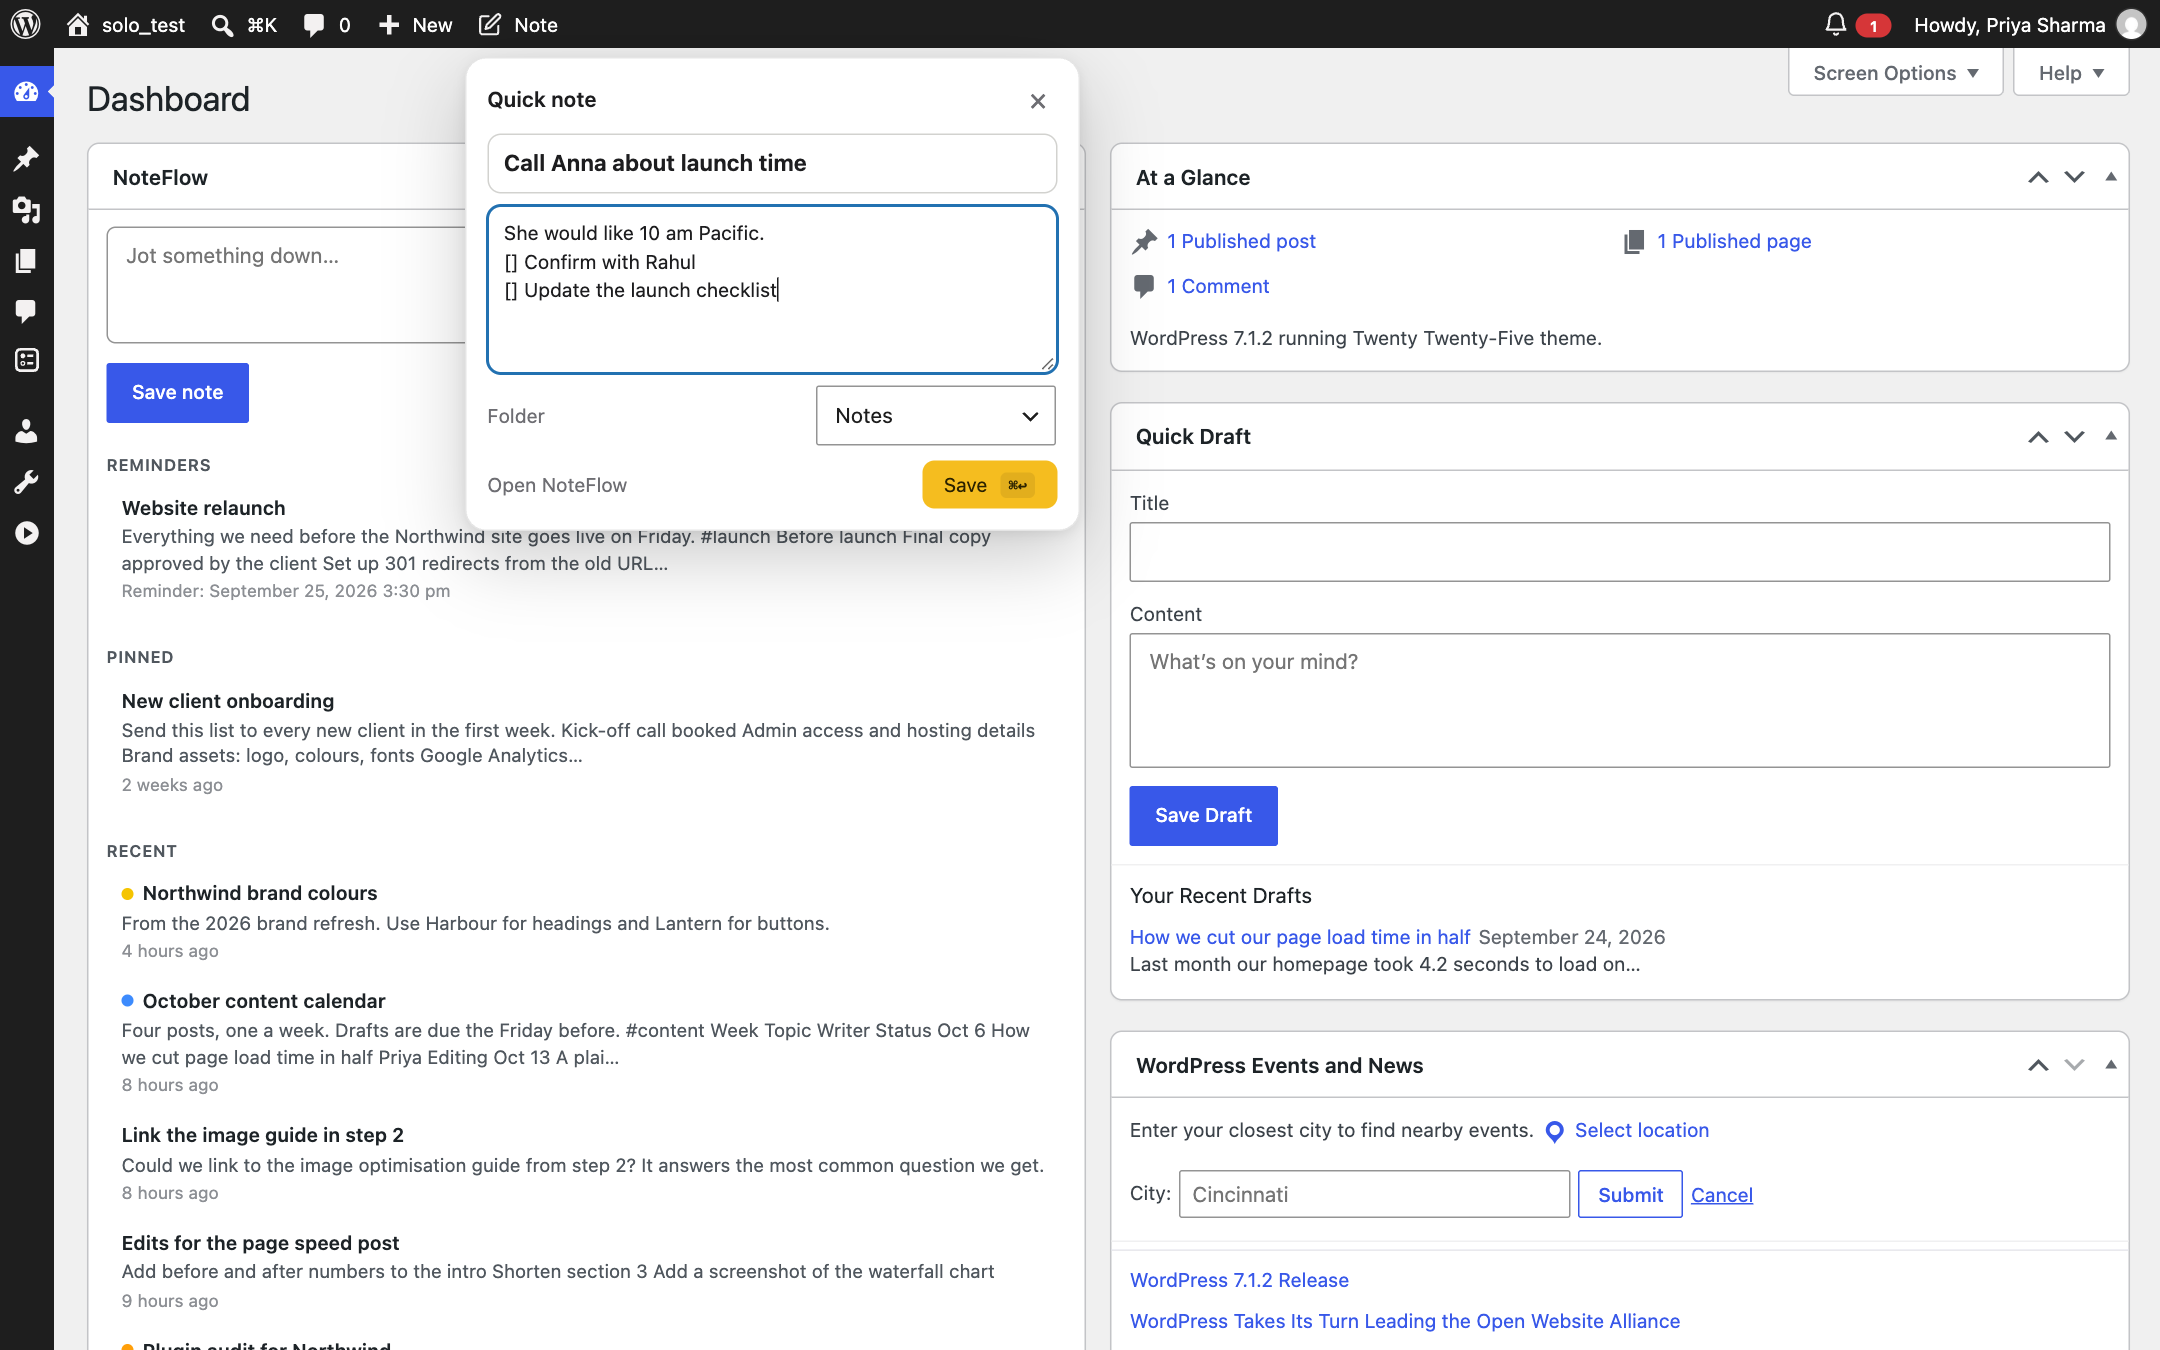
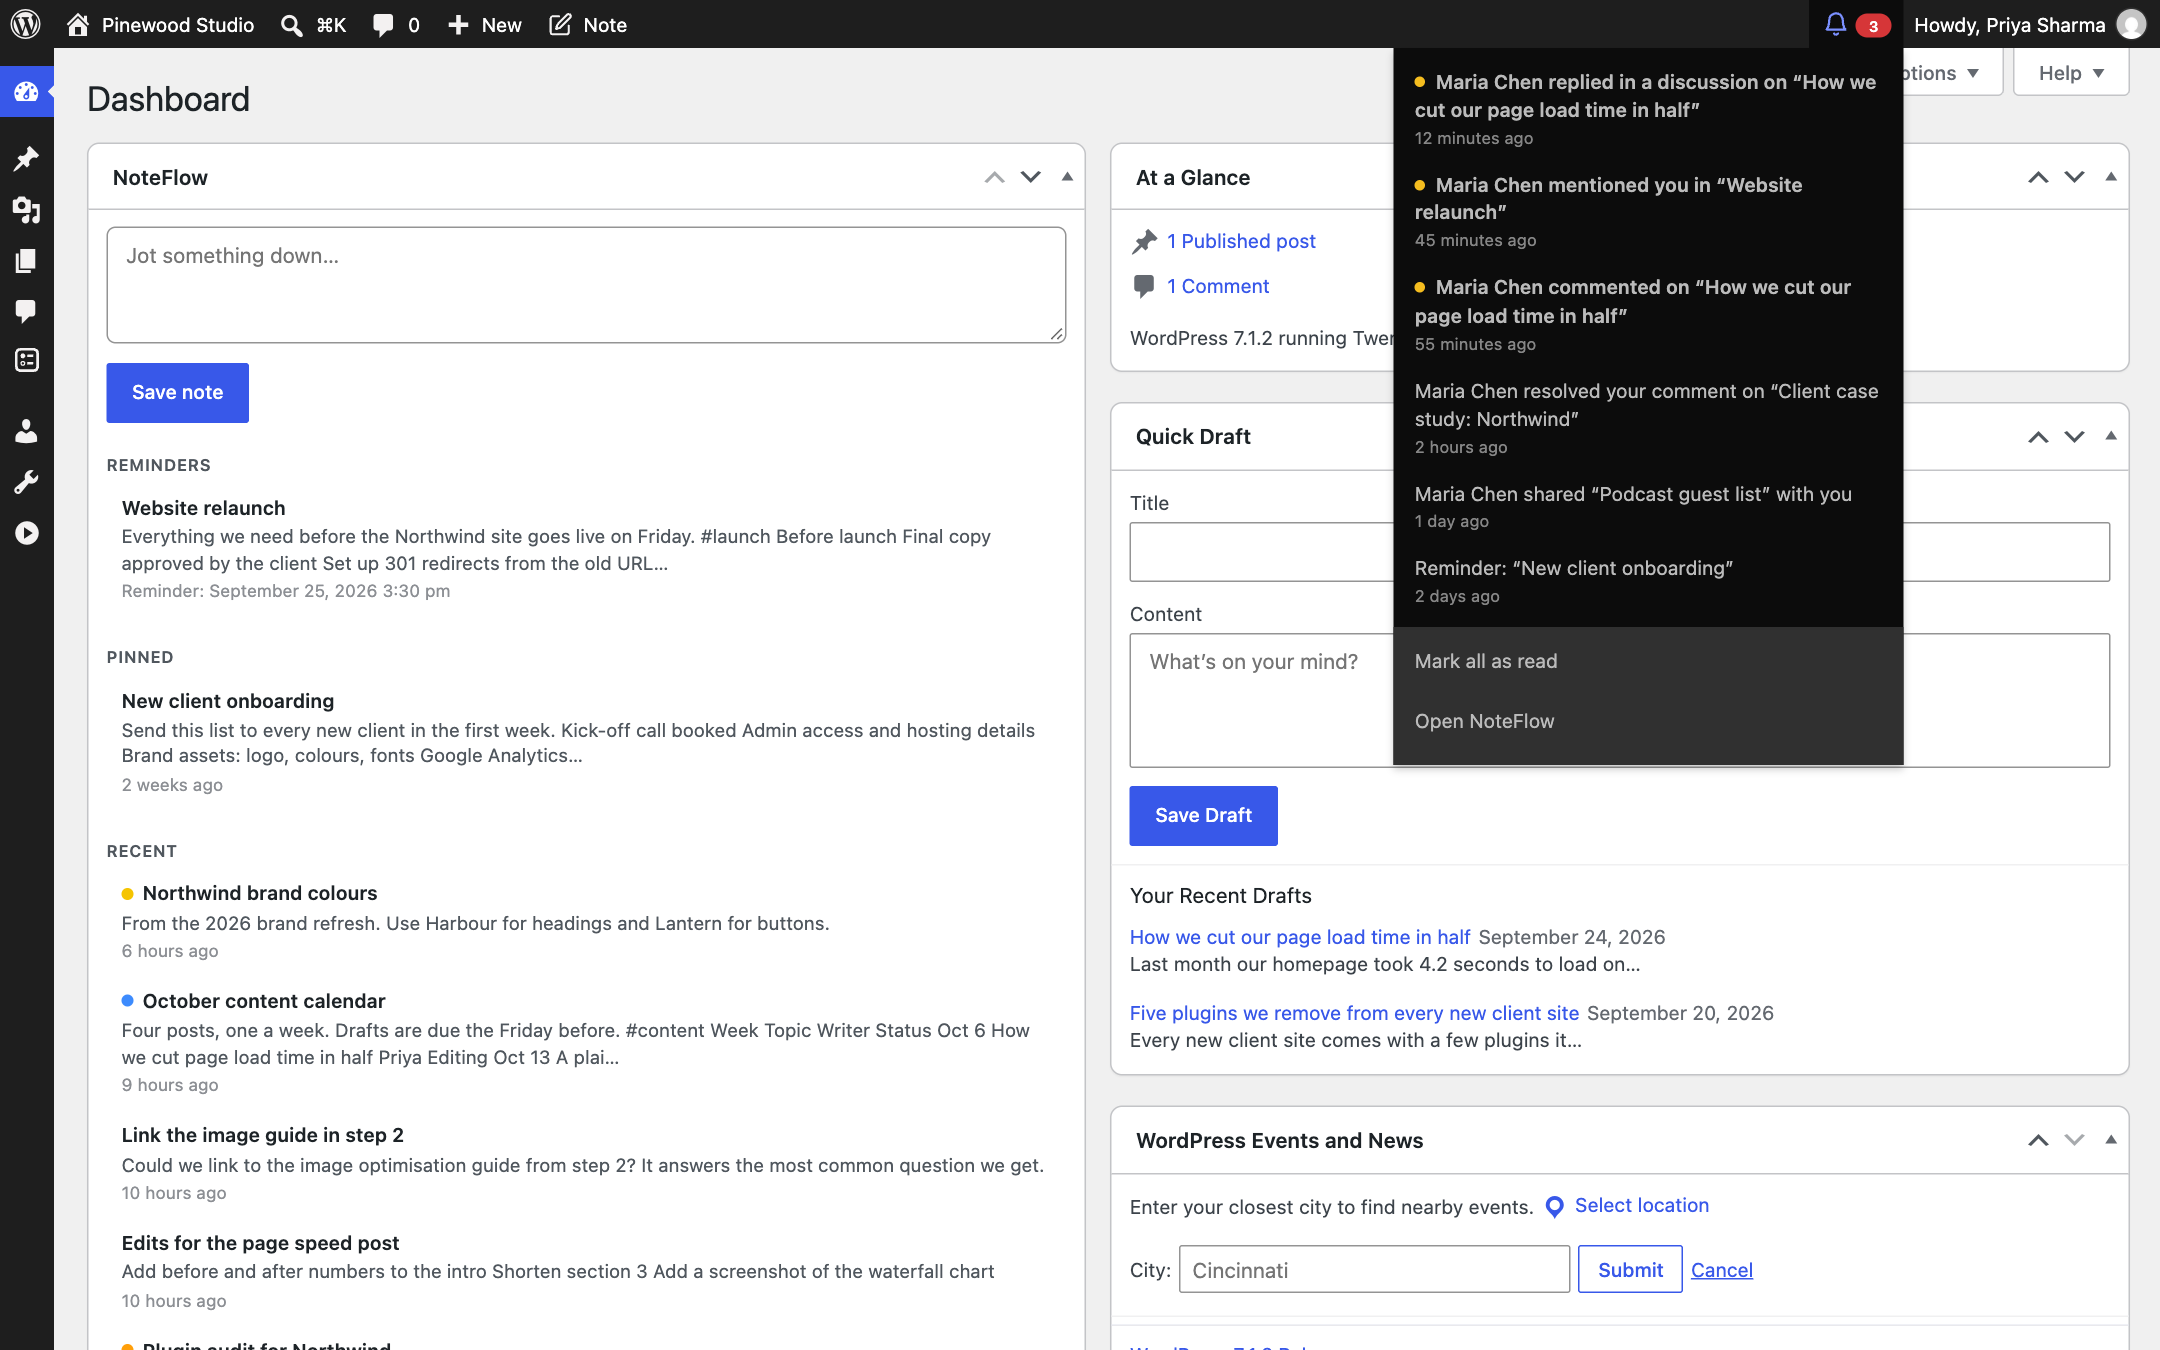
Twenty-two wordpress.org screenshots, one for every feature
New shots: editing the same line at once, the toolbar bell, the Posts
column, the classic editor box, notes on a post, quick capture on the site,
templates, formatting, search, the note menu, accent colours, keyboard
shortcuts, and a phone layout. The readme lists all 22.

The demo workspace now has eight unpublished posts with discussions and a
fuller notification history. While the build runs, a temporary must-use
plugin keeps the Posts screen to the demo posts, can open the classic
editor, and shows a made-up site name. The conflict shot uses a throwaway
note that is deleted straight away.

diff --git a/.wordpress-org/source/demo.php b/.wordpress-org/source/demo.php
@@ -155,9 +155,45 @@ function nf_demo_thread( $post_id, $thread, $replies = array() ) {
 	return $id;
 }
 nf_demo_thread( $post_id, array( 'type' => 'comment', 'user' => $M, 'text' => 'Worth saying which page kept the slider?', 'block' => 'nfdemoslider', 'quote' => 'The slider was only used on one page.', 'status' => 'resolved', 'resolved_by' => $P, 'resolved_at' => time() - 100 * MINUTE_IN_SECONDS, 'time' => 180 ), array( array( $P, 'Added it: the old About page.', 110 ) ) );
-nf_demo_thread( $post_id, array( 'type' => 'comment', 'user' => $M, 'text' => 'Can we lead with 1.9 seconds? That is the number people will remember.', 'block' => 'nfdemointro', 'quote' => 'Last month our homepage took 4.2 seconds to load on a phone. Today it takes 1.9.', 'time' => 52 ), array( array( $P, 'Good idea. I will swap the first two sentences.', 34 ) ) );
-nf_demo_thread( $post_id, array( 'type' => 'issue', 'user' => $P, 'text' => 'We need the waterfall screenshot here. @Maria Chen can you export it from the lab test?', 'block' => 'nfdemochart', 'quote' => 'The waterfall chart showed three problems straight away', 'assignee' => $M, 'mentions' => array( $M ), 'time' => 21 ), array( array( $M, 'On it, I will add it before lunch.', 9 ) ) );
+$intro_thread = nf_demo_thread( $post_id, array( 'type' => 'comment', 'user' => $M, 'text' => 'Can we lead with 1.9 seconds? That is the number people will remember.', 'block' => 'nfdemointro', 'quote' => 'Last month our homepage took 4.2 seconds to load on a phone. Today it takes 1.9.', 'time' => 52 ), array( array( $P, 'Good idea. I will swap the first two sentences.', 34 ) ) );
+$chart_thread = nf_demo_thread( $post_id, array( 'type' => 'issue', 'user' => $P, 'text' => 'We need the waterfall screenshot here. @Maria Chen can you export it from the lab test?', 'block' => 'nfdemochart', 'quote' => 'The waterfall chart showed three problems straight away', 'assignee' => $M, 'mentions' => array( $M ), 'time' => 21 ), array( array( $M, 'On it, I will add it before lunch.', 9 ) ) );
 update_post_meta( $post_id, NoteFlow_Module_Discussions::OPEN, 2 );
+
+// The rest of October's posts, for the posts list, with a discussion on two of them.
+/** Creates a demo post as someone, back-dated, with paragraphs. Demo posts stay unpublished. */
+function nf_demo_post( $author, $title, $status, $paragraphs, $days_ago, $hour ) {
+	$content = array();
+	foreach ( $paragraphs as $text ) {
+		$content[] = "<!-- wp:paragraph -->\n<p>" . $text . "</p>\n<!-- /wp:paragraph -->";
+	}
+	$id = wp_insert_post( array( 'post_title' => $title, 'post_status' => $status, 'post_author' => $author, 'post_content' => wp_slash( implode( "\n\n", $content ) ) ) );
+	nf_demo_date( $id, $days_ago, $hour );
+	return $id;
+}
+$guide = nf_demo_post( $S, 'A plain guide to block themes', 'pending', array( 'Block themes let you edit every part of your site, from the header to the footer, with blocks.', 'In this guide we build a small theme with a theme.json file, three templates and two patterns.' ), 0, 6.5 );
+nf_demo_thread( $guide, array( 'type' => 'comment', 'user' => $P, 'text' => 'Love the intro. Can we add a screenshot of the Site Editor here?', 'time' => 95 ) );
+nf_demo_thread( $guide, array( 'type' => 'comment', 'user' => $M, 'text' => 'Section 3 repeats section 1 a little. Merge them?', 'time' => 64 ), array( array( $S, 'Good catch, merging them now.', 50 ) ) );
+nf_demo_thread( $guide, array( 'type' => 'issue', 'user' => $P, 'text' => 'The theme.json example is missing a closing brace. @Sofia Alvarez can you fix it before Friday?', 'assignee' => $S, 'mentions' => array( $S ), 'time' => 31 ) );
+update_post_meta( $guide, NoteFlow_Module_Discussions::OPEN, 3 );
+
+$study = nf_demo_post( $M, 'Client case study: Northwind', 'draft', array( 'Northwind roasts coffee on the coast and sells subscriptions across the country.', 'They came to us with a slow site, a checkout that lost orders, and a launch date six weeks away.' ), 1, 15 );
+$study_thread = nf_demo_thread( $study, array( 'type' => 'comment', 'user' => $P, 'text' => 'Should we name the payment provider here?', 'status' => 'resolved', 'resolved_by' => $M, 'resolved_at' => time() - 130 * MINUTE_IN_SECONDS, 'time' => 200 ), array( array( $M, 'Anna said yes, it is in the next paragraph now.', 131 ) ) );
+nf_demo_thread( $study, array( 'type' => 'issue', 'user' => $P, 'text' => 'Anna asked us to leave out the revenue numbers. Can you take them out of the results section?', 'assignee' => $M, 'time' => 75 ) );
+update_post_meta( $study, NoteFlow_Module_Discussions::OPEN, 1 );
+
+$checklist = nf_demo_post( $R, 'Our WordPress maintenance checklist', 'draft', array( 'Every month we run the same checks on every client site. Here is the list, and why each item is on it.' ), 2, 11 );
+
+// Ideas from the newsletter note, in progress.
+$contrast = nf_demo_post( $S, 'A short guide to accessible colour contrast', 'pending', array( 'Good contrast makes text readable for everyone, in bright sunlight and on old screens.' ), 3, 10 );
+nf_demo_thread( $contrast, array( 'type' => 'issue', 'user' => $M, 'text' => 'The example buttons fail AA. Can we swap them for the new palette?', 'assignee' => $S, 'time' => 300 ) );
+update_post_meta( $contrast, NoteFlow_Module_Discussions::OPEN, 1 );
+$scenes = nf_demo_post( $M, 'Behind the scenes of a site launch', 'draft', array( 'Launch day is mostly waiting. Here is what the week before it looks like at our studio.' ), 3, 16 );
+nf_demo_thread( $scenes, array( 'type' => 'comment', 'user' => $P, 'text' => 'Could we add a photo of the launch board?', 'time' => 800 ) );
+nf_demo_thread( $scenes, array( 'type' => 'comment', 'user' => $P, 'text' => 'Rahul has the timeline from the Northwind launch if you want it.', 'time' => 790 ) );
+update_post_meta( $scenes, NoteFlow_Module_Discussions::OPEN, 2 );
+$php = nf_demo_post( $R, 'What we learned moving 40 sites to PHP 8.3', 'draft', array( 'Most sites moved without a problem. The rest taught us a lot about old plugins.' ), 5, 9 );
+nf_demo_thread( $php, array( 'type' => 'comment', 'user' => $P, 'text' => 'Nice. Can you add how long the whole move took?', 'status' => 'resolved', 'resolved_by' => $R, 'resolved_at' => time() - 2 * DAY_IN_SECONDS, 'time' => 4000 ) );
+$plugins = nf_demo_post( $P, 'Five plugins we remove from every new client site', 'draft', array( 'Every new client site comes with a few plugins it does not need. These five go first.' ), 4, 14 );
 
 $seo = nf_demo_note( $P, 'Edits for the page speed post', '<ul class="nf-checklist"><li class="nf-checked">Add before and after numbers to the intro</li><li>Shorten section 3</li><li>Add a screenshot of the waterfall chart</li></ul>', array( 'folder' => $folders['Content'], 'linked' => $post_id ), 0, 7.5 );
 $seo2 = nf_demo_note( $S, 'Link the image guide in step 2', '<p>Could we link to the image optimisation guide from step 2? It answers the most common question we get.</p>', array( 'linked' => $post_id ), 0, 7.9 );
@@ -167,12 +203,16 @@ NoteFlow_Access::set_share( $seo2, '', array( $P => 'edit' ) );
 $podcast = nf_demo_note( $M, 'Podcast guest list', '<p>People to invite this season.</p><ul class="nf-checklist"><li class="nf-checked">Someone who runs a WooCommerce store</li><li>An accessibility specialist</li><li>An agency founder we met at WordCamp</li></ul>', array(), 1, 12 );
 NoteFlow_Access::set_share( $podcast, '', array( $P => 'edit' ) );
 
-// Notifications for Priya.
+// Notifications for Priya, newest first.
 update_user_option( $P, 'noteflow_notifications', array(
-	array( 'id' => 'demo1', 'type' => 'mention', 'note' => $launch, 'actor' => $M, 'text' => 'Forms send fine now. @Priya Sharma can you check the site on your phone before Thursday?', 'time' => time() - 42 * MINUTE_IN_SECONDS, 'read' => false ),
-	array( 'id' => 'demo2', 'type' => 'share', 'note' => $podcast, 'actor' => $M, 'text' => 'edit', 'time' => time() - DAY_IN_SECONDS, 'read' => true ),
+	array( 'id' => 'demo1', 'type' => 'post_reply', 'note' => $post_id, 'actor' => $M, 'text' => 'On it, I will add it before lunch.', 'time' => time() - 9 * MINUTE_IN_SECONDS, 'read' => false, 'thread' => $chart_thread ),
+	array( 'id' => 'demo2', 'type' => 'mention', 'note' => $launch, 'actor' => $M, 'text' => 'Forms send fine now. @Priya Sharma can you check the site on your phone before Thursday?', 'time' => time() - 42 * MINUTE_IN_SECONDS, 'read' => false ),
+	array( 'id' => 'demo3', 'type' => 'post_comment', 'note' => $post_id, 'actor' => $M, 'text' => 'Can we lead with 1.9 seconds? That is the number people will remember.', 'time' => time() - 52 * MINUTE_IN_SECONDS, 'read' => false, 'thread' => $intro_thread ),
+	array( 'id' => 'demo4', 'type' => 'post_resolved', 'note' => $study, 'actor' => $M, 'text' => 'Should we name the payment provider here?', 'time' => time() - 130 * MINUTE_IN_SECONDS, 'read' => true, 'thread' => $study_thread ),
+	array( 'id' => 'demo5', 'type' => 'share', 'note' => $podcast, 'actor' => $M, 'text' => 'edit', 'time' => time() - DAY_IN_SECONDS, 'read' => true ),
+	array( 'id' => 'demo6', 'type' => 'reminder', 'note' => $onboarding, 'actor' => 0, 'text' => '', 'time' => time() - 2 * DAY_IN_SECONDS, 'read' => true ),
 ) );
 
-update_option( 'noteflow_demo_ids', array( $seo2, $podcast, $post_id ) );
-update_option( 'noteflow_demo', array( 'launch' => $launch, 'calendar' => $calendar, 'post' => $post_id, 'podcast' => $podcast, 'brand' => $brand, 'newsletter' => $newsletter ) );
+update_option( 'noteflow_demo_ids', array( $seo2, $podcast, $post_id, $guide, $study, $checklist, $contrast, $scenes, $php, $plugins ) );
+update_option( 'noteflow_demo', array( 'launch' => $launch, 'calendar' => $calendar, 'post' => $post_id, 'podcast' => $podcast, 'brand' => $brand, 'newsletter' => $newsletter, 'guide' => $guide, 'study' => $study, 'posts' => array( $post_id, $guide, $study, $checklist, $contrast, $scenes, $php, $plugins ) ) );
 echo wp_json_encode( get_option( 'noteflow_demo' ) ), "\n";
